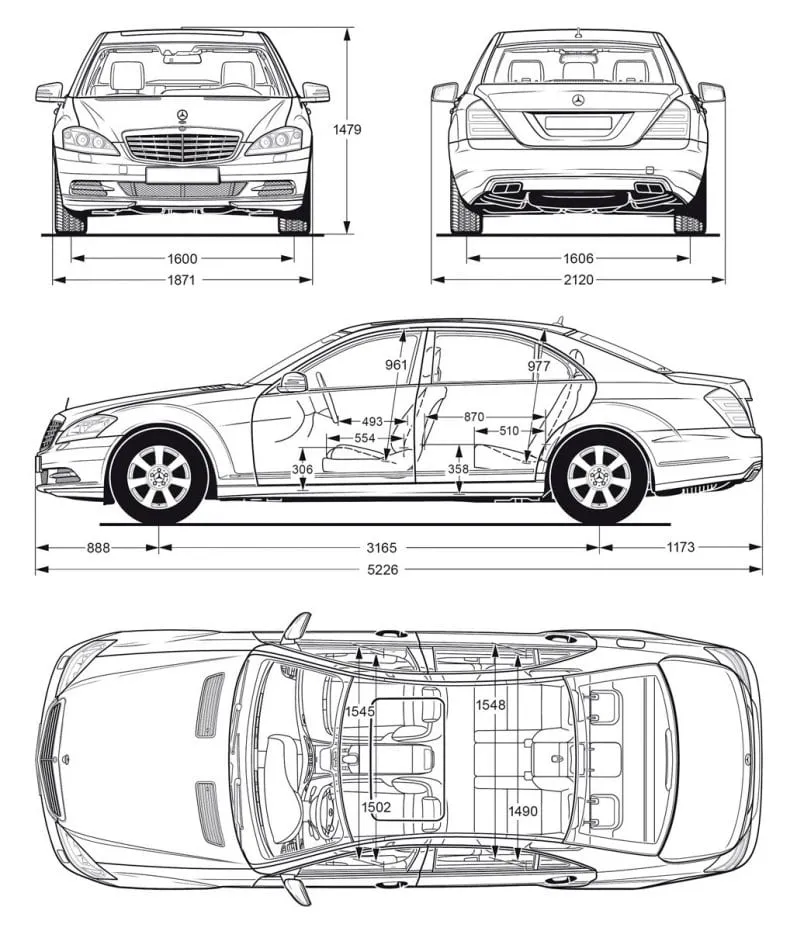
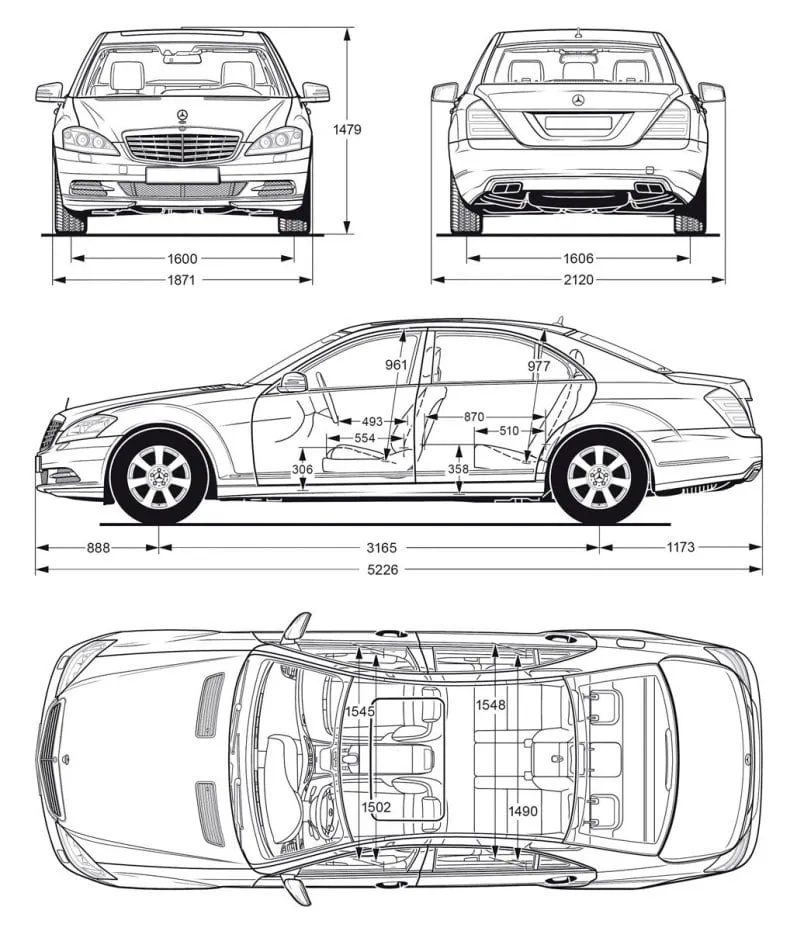
246

diff --git a/pic/ja_mb_img_s.html b/pic/ja_mb_img_s.html
@@ -628,7 +628,7 @@
 							</div>
 							<div class="box80b">
 								<h5>Dimensions</h5>
-								<a href="full/s/w221_a2.jpg"><img loading="lazy" src="style/s/w221_a2.webp" alt="メルセデス,W221,Sクラス,5th,寸法" width="804" height="931"></a>
+								<a href="full/s/w221_a2.jpg"><img loading="lazy" src="style/s/w221_a2.webp" alt="メルセデス,W221,Sクラス,5th,寸法" width="801" height="931"></a>
 							</div>
 						</div>
 						<h5>S600 Pullman Guard 2008</h5>

diff --git a/pic/mb_img_s.html b/pic/mb_img_s.html
@@ -627,7 +627,7 @@
 							</div>
 							<div class="box80b">
 								<h5>Abmessungen</h5>
-								<a href="full/s/w221_a2.jpg"><img loading="lazy" src="style/s/w221_a2.webp" alt="Mercedes,W221,S-klasse,5te,Abmessungen" width="804" height="931"></a>
+								<a href="full/s/w221_a2.jpg"><img loading="lazy" src="style/s/w221_a2.webp" alt="Mercedes,W221,S-klasse,5te,Abmessungen" width="801" height="931"></a>
 							</div>
 						</div>
 						<h5>S600 Pullman Guard 2008</h5>

diff --git a/pic/en_mb_img_s.html b/pic/en_mb_img_s.html
@@ -628,7 +628,7 @@
 							</div>
 							<div class="box80b">
 								<h5>Dimensions</h5>
-								<a href="full/s/w221_a2.jpg"><img loading="lazy" src="style/s/w221_a2.webp" alt="Mercedes,W221,S-class,5th,dimensions" width="804" height="931"></a>
+								<a href="full/s/w221_a2.jpg"><img loading="lazy" src="style/s/w221_a2.webp" alt="Mercedes,W221,S-class,5th,dimensions" width="801" height="931"></a>
 							</div>
 						</div>
 						<h5>S600 Pullman Guard 2008</h5>
